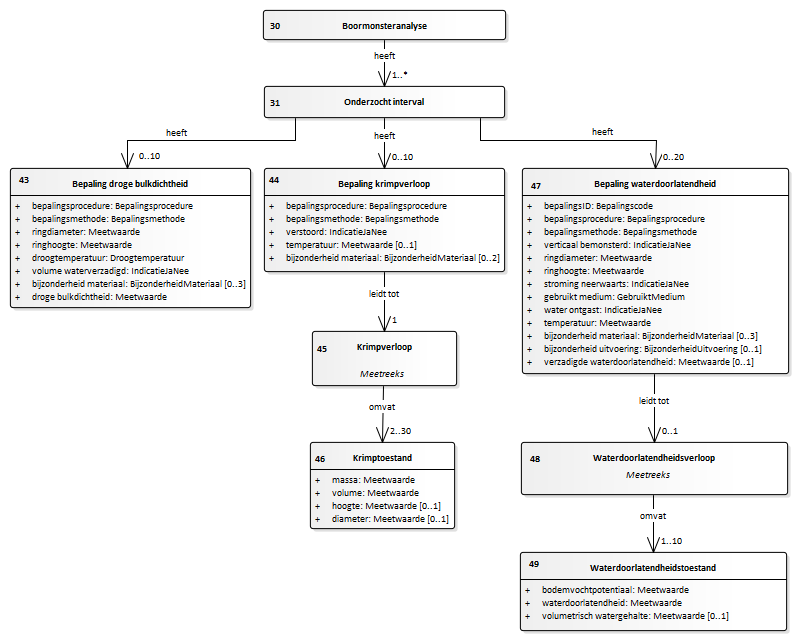
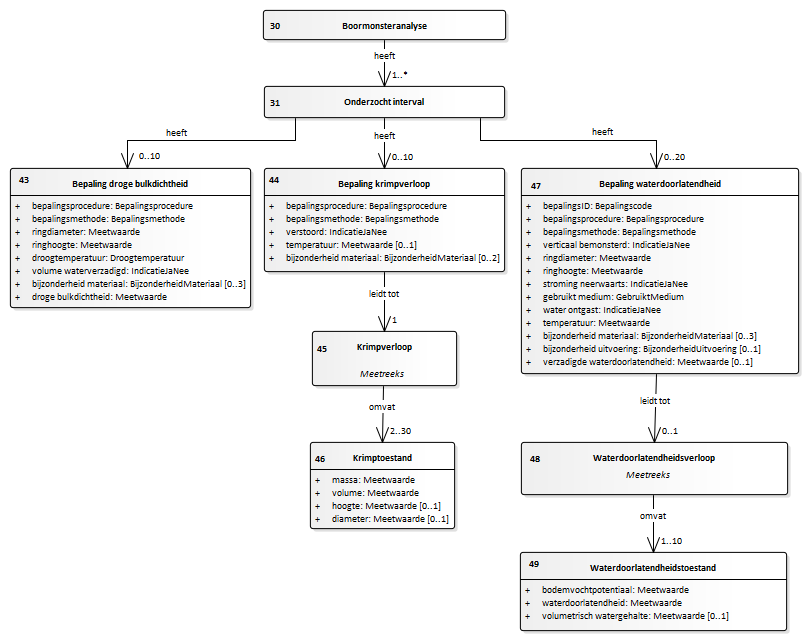
Conceptualmodel-BHR-Pconceptueel-MIM-1.99versie24maart2020metengels-1-20200429-20200429-110947

diff --git a/data/BHR-P-cat.msword.html b/data/BHR-P-cat.msword.html
@@ -13,7 +13,7 @@
    <body>
       <p>Conceptual model/BHR-P conceptueel - MIM/20200429</p>
       <p>Imvertor: 1.59.3</p>
-      <p>Model release: Conceptualmodel-BHR-Pconceptueel-MIM-1.99versie24maart2020metengels-1-20200429-20200429-103339</p>
+      <p>Model release: Conceptualmodel-BHR-Pconceptueel-MIM-1.99versie24maart2020metengels-1-20200429-20200429-110947</p>
       <hr>
       <section>
          <h1>Artikel 1 Definitie van registratieobject, entiteiten en attributen</h1>
@@ -121,7 +121,7 @@
                <div class="imageinfo overview"><img src="Images/EAID_00029315_9461_4363_B7AC_4412C5E6439A.png" usemap="#imagemap-EAID_00029315_9461_4363_B7AC_4412C5E6439A" alt="Diagram "><map name="imagemap-EAID_00029315_9461_4363_B7AC_4412C5E6439A">
                      <area shape="rect" alt="Waterdoorlatendheidstoestand" coords="520,552,787,631" href="#graph_EAID_DC02E36B_F1B5_4332_949C_95620F88CB8F">
                      <area shape="rect" alt="Waterdoorlatendheidsverloop" coords="521,442,788,495" href="#graph_EAID_2FCF1E25_FE2E_4875_9941_5E318862B221">
-                     <area shape="rect" alt="Bepaling waterdoorlatendheid" coords="522,168,789,374" href="#graph_EAID_572E60DA_8CAF_4016_835C_BEB93802FF60">
+                     <area shape="rect" alt="Bepaling waterdoorlatendheid" coords="521,168,799,374" href="#graph_EAID_572E60DA_8CAF_4016_835C_BEB93802FF60">
                      <area shape="rect" alt="Bepaling droge bulkdichtheid" coords="10,168,251,308" href="#graph_EAID_CBDC588E_E9CE_429c_AB74_08ED13292D32">
                      <area shape="rect" alt="Krimptoestand" coords="310,442,455,529" href="#graph_EAID_C1956C67_A2FA_4817_880E_AFDFAF0EE4B4">
                      <area shape="rect" alt="Krimpverloop" coords="312,331,457,386" href="#graph_EAID_3EB07C97_1626_4580_A461_10F4A6FC2324">
